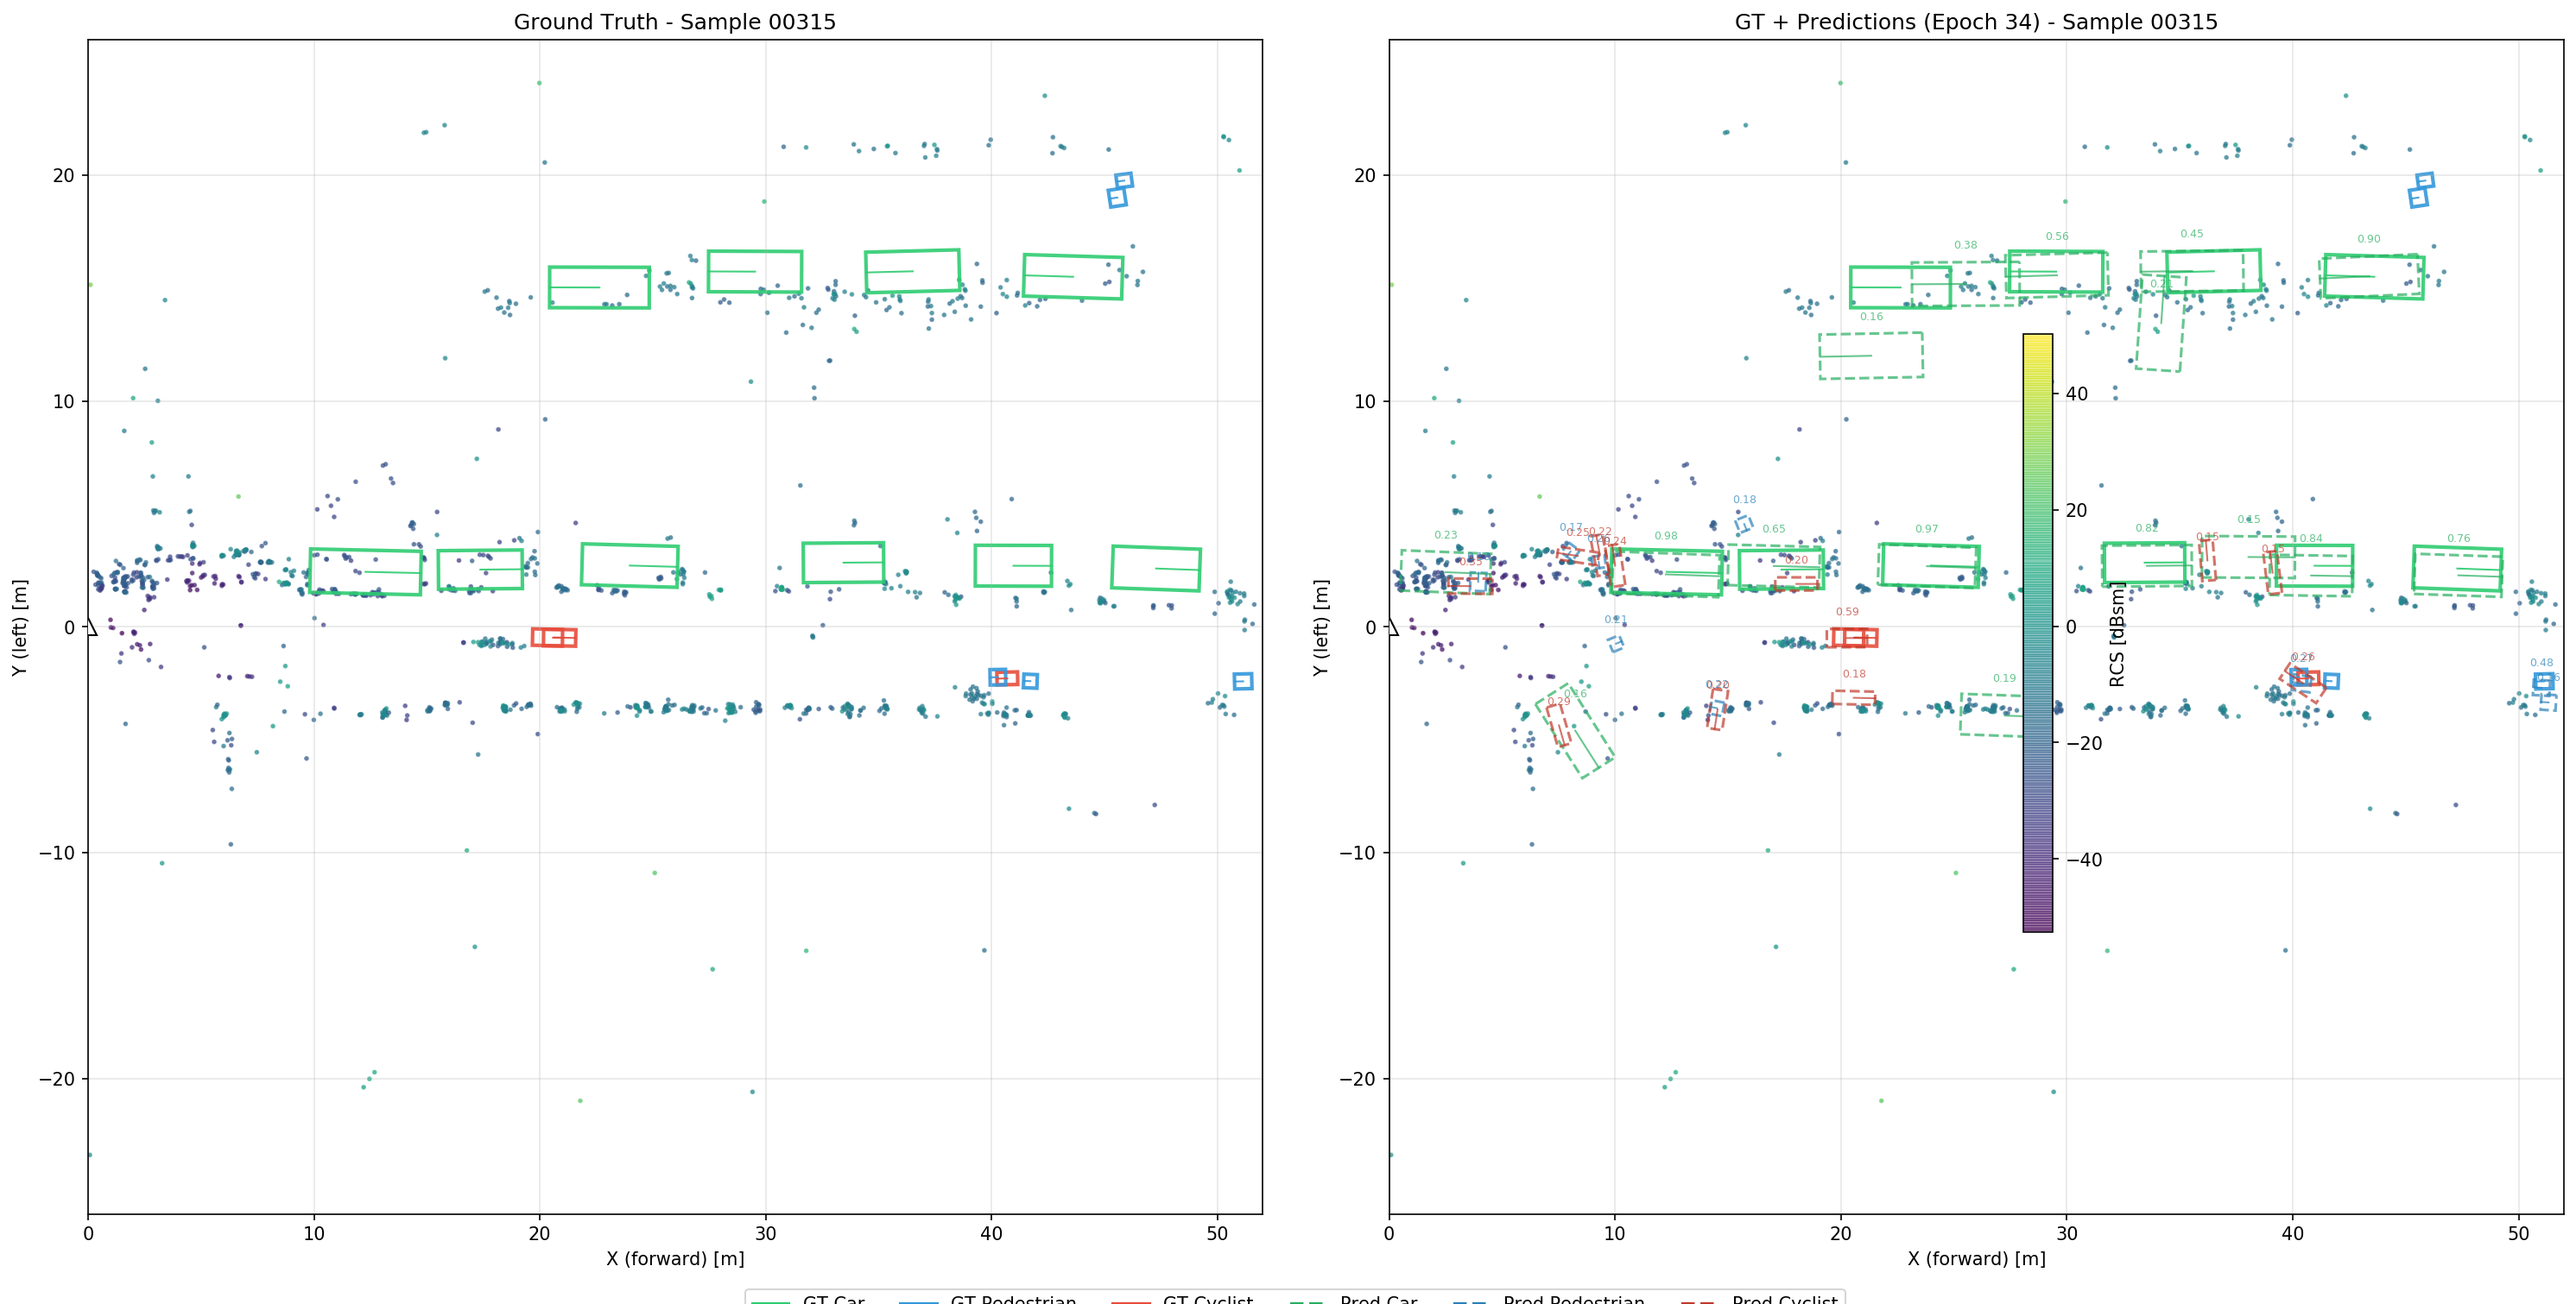
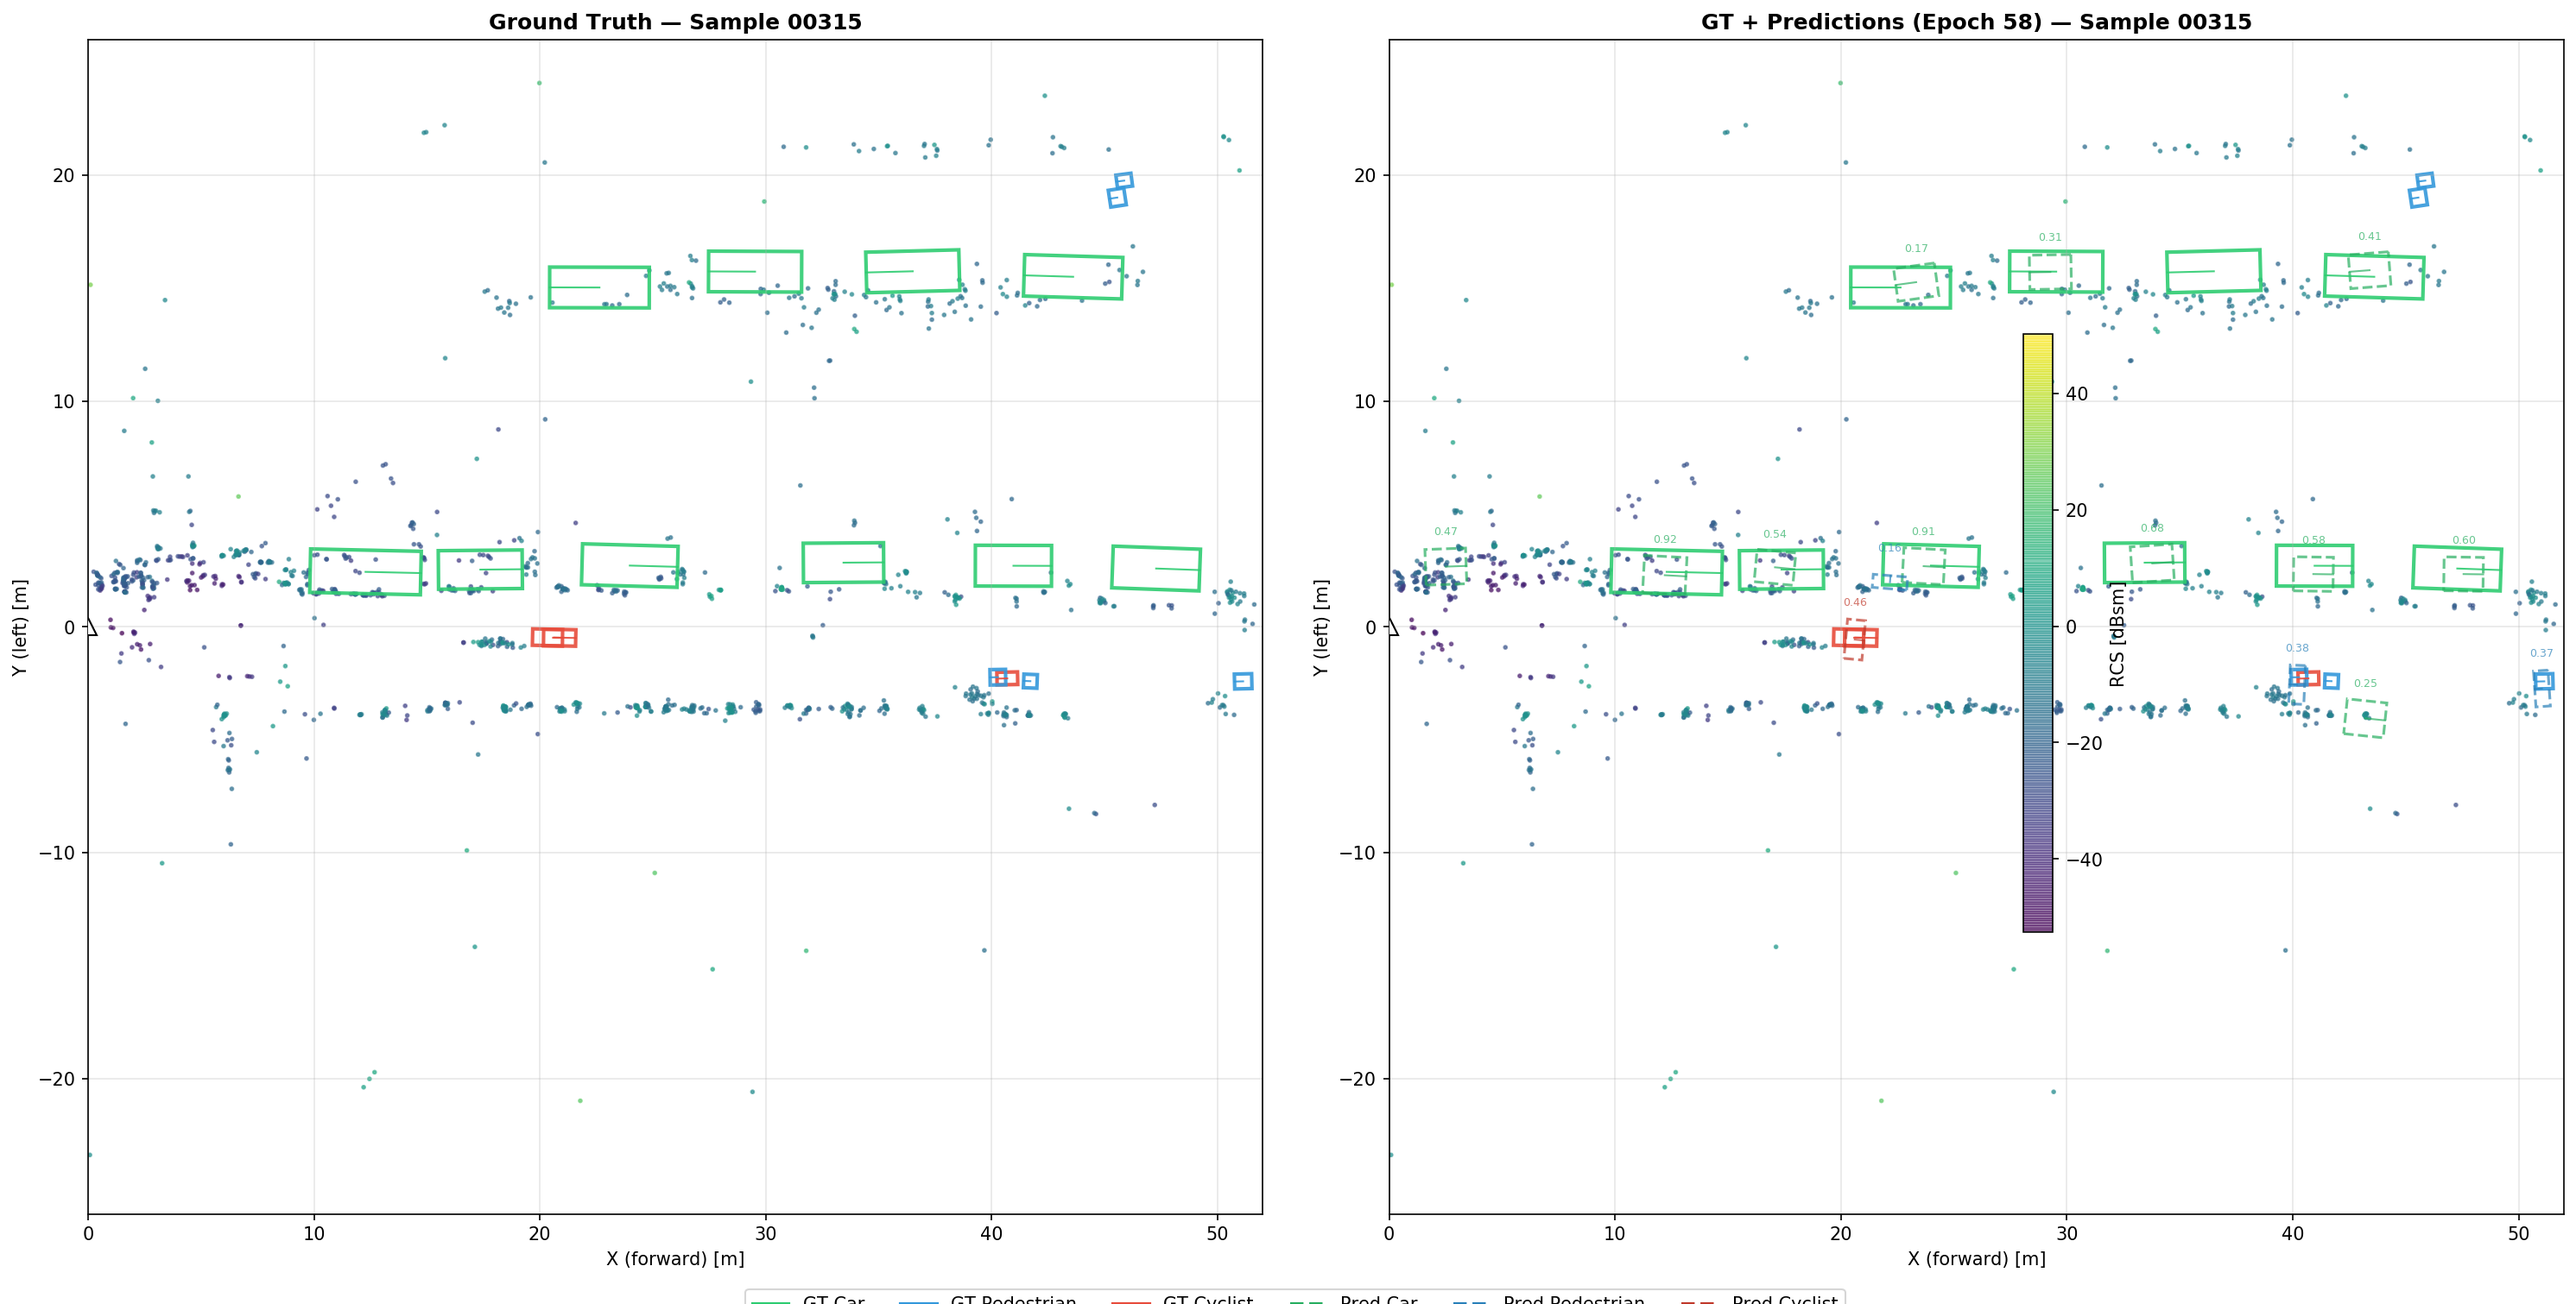
Update README visuals with current experiment results (default, epoch 58)
- Regenerate BEV plots (00315, 00107) from default experiment epoch 58
- Replace old 2peakcyclist AP evolution with default experiment (epoch 48-60)
- Add generate_readme_visuals.py script for reproducible visual generation
- Update BEV descriptions to reference current experiment and epoch

diff --git a/tools/generate_readme_visuals.py b/tools/generate_readme_visuals.py
@@ -1,0 +1,264 @@
+"""
+Generate updated README visuals from current experiment results.
+1. Stable-region AP evolution plot (epoch 48-60) for default experiment
+2. Export result.pkl to KITTI-format txt for BEV visualization
+3. Generate BEV images from the best epoch predictions
+"""
+import os
+import sys
+import re
+import pickle
+import numpy as np
+import matplotlib
+matplotlib.use('Agg')
+import matplotlib.pyplot as plt
+from pathlib import Path
+
+ROOT = Path(__file__).resolve().parent.parent
+DATA_ROOT = ROOT / 'data' / 'VoD' / 'view_of_delft_PUBLIC' / 'radar_5frames'
+OUTPUT_VIS = ROOT / 'docs' / 'visualizations'
+
+# ── 1. AP Evolution Plot (stable region) ────────────────────────────
+def parse_train_log(log_path):
+    """Parse a training log for 3D AP R40 moderate values per epoch."""
+    epoch_pattern = re.compile(r"\*+ EPOCH (\d+) EVALUATION \*+")
+    class_pattern = re.compile(r"(Car|Pedestrian|Cyclist) AP_R40@")
+    metric_pattern = re.compile(r"3d\s+AP:([\d\.]+), ([\d\.]+), ([\d\.]+)")
+
+    data = {}
+    current_epoch = None
+    current_class = None
+
+    with open(log_path, 'r') as f:
+        for line in f:
+            m = epoch_pattern.search(line)
+            if m:
+                current_epoch = int(m.group(1))
+                current_class = None
+                data.setdefault(current_epoch, {})
+                continue
+            if current_epoch is not None:
+                m = class_pattern.search(line)
+                if m:
+                    current_class = m.group(1)
+                    continue
+                if current_class is not None:
+                    m = metric_pattern.search(line)
+                    if m:
+                        # moderate = second value
+                        data[current_epoch][current_class] = float(m.group(2))
+                        current_class = None
+    return data
+
+
+def plot_stable_ap_evolution(out_path):
+    """Plot AP evolution for default experiment, epoch 48-60 (stable region)."""
+    log_dir = ROOT / 'output' / 'cfgs' / 'vod_models' / 'vod_radarpillar' / 'default'
+    logs = sorted(log_dir.glob('log_train_*.txt'))
+    if not logs:
+        print("No default training log found!")
+        return
+
+    data = parse_train_log(str(logs[-1]))
+
+    # Filter to stable epochs
+    epochs = sorted([e for e in data.keys() if 48 <= e <= 60])
+    if not epochs:
+        print("No epochs in 48-60 range found!")
+        return
+
+    classes = ['Car', 'Pedestrian', 'Cyclist']
+    colors = ['#1f77b4', '#ff7f0e', '#2ca02c']
+
+    fig, ax = plt.subplots(figsize=(10, 6))
+    for cls, color in zip(classes, colors):
+        values = [data[e].get(cls, np.nan) for e in epochs]
+        ax.plot(epochs, values, marker='o', color=color, label=cls, linewidth=2)
+
+    ax.set_title('RadarPillar 3D AP (R40) Evolution — Default Experiment', fontsize=13,
+                 fontweight='bold')
+    ax.set_xlabel('Epoch', fontsize=11)
+    ax.set_ylabel('3D AP (%)', fontsize=11)
+    ax.legend(fontsize=11)
+    ax.grid(True, alpha=0.3)
+    ax.set_xticks(epochs)
+
+    fig.tight_layout()
+    fig.savefig(str(out_path), dpi=150, bbox_inches='tight')
+    print(f"Saved: {out_path}")
+    plt.close()
+
+
+# ── 2. Export result.pkl → KITTI txt ────────────────────────────────
+def export_pkl_to_kitti_txt(pkl_path, output_dir):
+    """Convert result.pkl to per-frame KITTI-format txt files."""
+    output_dir = Path(output_dir)
+    output_dir.mkdir(parents=True, exist_ok=True)
+
+    with open(pkl_path, 'rb') as f:
+        results = pickle.load(f)
+
+    for det in results:
+        frame_id = det['frame_id']
+        out_file = output_dir / f'{frame_id}.txt'
+
+        lines = []
+        n = len(det['name'])
+        for i in range(n):
+            name = det['name'][i]
+            trunc = det['truncated'][i]
+            occ = det['occluded'][i]
+            alpha = det['alpha'][i]
+            bbox = det['bbox'][i]  # 2D bbox
+            dims = det['dimensions'][i]  # h, w, l (camera frame)
+            loc = det['location'][i]  # x, y, z (camera frame)
+            ry = det['rotation_y'][i]
+            score = det['score'][i]
+
+            line = (f"{name} {trunc:.2f} {int(occ)} {alpha:.2f} "
+                    f"{bbox[0]:.2f} {bbox[1]:.2f} {bbox[2]:.2f} {bbox[3]:.2f} "
+                    f"{dims[0]:.2f} {dims[1]:.2f} {dims[2]:.2f} "
+                    f"{loc[0]:.2f} {loc[1]:.2f} {loc[2]:.2f} "
+                    f"{ry:.2f} {score:.4f}")
+            lines.append(line)
+
+        with open(out_file, 'w') as f:
+            f.write('\n'.join(lines) + '\n' if lines else '')
+
+    print(f"Exported {len(results)} frames to {output_dir}")
+
+
+# ── 3. BEV Visualization (inline, no txt dependency) ────────────────
+# Import BEV functions from visualize_bev.py
+sys.path.insert(0, str(ROOT / 'tools'))
+from visualize_bev import (parse_label_line, draw_box, get_box_corners,
+                            CLASS_COLORS_GT, CLASS_COLORS_PRED, CLASS_MAPPING)
+from matplotlib.lines import Line2D
+
+
+def visualize_bev_from_pkl(sample_id, pkl_path, epoch_num, output_dir,
+                            score_thresh=0.15, xlim=(0, 52), ylim=(-26, 26)):
+    """Generate BEV vis directly from result.pkl for a given sample."""
+    output_dir = Path(output_dir)
+    output_dir.mkdir(parents=True, exist_ok=True)
+
+    # Load radar points
+    pc_file = DATA_ROOT / 'training' / 'velodyne' / f'{sample_id}.bin'
+    points = np.fromfile(str(pc_file), dtype=np.float32).reshape(-1, 7)
+
+    # Load GT labels
+    gt_file = DATA_ROOT / 'training' / 'label_2' / f'{sample_id}.txt'
+    gt_objects = []
+    with open(gt_file, 'r') as f:
+        for line in f:
+            parts = line.strip().split()
+            if len(parts) < 15 or parts[0] == 'DontCare':
+                continue
+            obj = parse_label_line(line, is_pred=False)
+            if obj['class'] in ('Car', 'Pedestrian', 'Cyclist'):
+                gt_objects.append(obj)
+
+    # Load predictions from pkl
+    with open(pkl_path, 'rb') as f:
+        results = pickle.load(f)
+
+    # Find matching frame
+    pred_objects = []
+    for det in results:
+        if det['frame_id'] == sample_id:
+            n = len(det['name'])
+            for i in range(n):
+                score = det['score'][i]
+                if score < score_thresh:
+                    continue
+                # Reconstruct KITTI-format line for reuse of parse_label_line
+                name = det['name'][i]
+                trunc = det['truncated'][i]
+                occ = int(det['occluded'][i])
+                alpha = det['alpha'][i]
+                bbox = det['bbox'][i]
+                dims = det['dimensions'][i]
+                loc = det['location'][i]
+                ry = det['rotation_y'][i]
+                line = (f"{name} {trunc:.2f} {occ} {alpha:.2f} "
+                        f"{bbox[0]:.2f} {bbox[1]:.2f} {bbox[2]:.2f} {bbox[3]:.2f} "
+                        f"{dims[0]:.2f} {dims[1]:.2f} {dims[2]:.2f} "
+                        f"{loc[0]:.2f} {loc[1]:.2f} {loc[2]:.2f} "
+                        f"{ry:.2f} {score:.4f}")
+                obj = parse_label_line(line, is_pred=True)
+                if obj['class'] in ('Car', 'Pedestrian', 'Cyclist'):
+                    pred_objects.append(obj)
+            break
+
+    # Create figure
+    fig, (ax1, ax2) = plt.subplots(1, 2, figsize=(20, 10))
+
+    for ax, title, show_pred in [
+        (ax1, f'Ground Truth — Sample {sample_id}', False),
+        (ax2, f'GT + Predictions (Epoch {epoch_num}) — Sample {sample_id}', True)
+    ]:
+        rcs = points[:, 3]
+        scatter = ax.scatter(points[:, 0], points[:, 1], c=rcs, cmap='viridis',
+                             s=3, alpha=0.6, zorder=1)
+
+        for obj in gt_objects:
+            color = CLASS_COLORS_GT.get(obj['class'], '#95a5a6')
+            draw_box(ax, obj, color, linestyle='-', linewidth=2, alpha=0.9)
+
+        if show_pred:
+            for obj in pred_objects:
+                color = CLASS_COLORS_PRED.get(obj['class'], '#7f8c8d')
+                lbl = f"{obj['score']:.2f}"
+                draw_box(ax, obj, color, linestyle='--', linewidth=1.5,
+                         alpha=0.7, label_text=lbl)
+
+        ax.set_xlim(xlim)
+        ax.set_ylim(ylim)
+        ax.set_aspect('equal')
+        ax.set_xlabel('X (forward) [m]')
+        ax.set_ylabel('Y (left) [m]')
+        ax.set_title(title, fontsize=12, fontweight='bold')
+        ax.grid(True, alpha=0.3)
+        ax.plot(0, 0, marker='^', color='white', markersize=10,
+                markeredgecolor='black', zorder=5)
+
+    legend_elements = [
+        Line2D([0], [0], color='#2ecc71', linewidth=2, label='GT Car'),
+        Line2D([0], [0], color='#3498db', linewidth=2, label='GT Pedestrian'),
+        Line2D([0], [0], color='#e74c3c', linewidth=2, label='GT Cyclist'),
+        Line2D([0], [0], color='#27ae60', linewidth=2, linestyle='--', label='Pred Car'),
+        Line2D([0], [0], color='#2980b9', linewidth=2, linestyle='--', label='Pred Pedestrian'),
+        Line2D([0], [0], color='#c0392b', linewidth=2, linestyle='--', label='Pred Cyclist'),
+    ]
+    fig.legend(handles=legend_elements, loc='lower center', ncol=6, fontsize=10,
+               bbox_to_anchor=(0.5, -0.02))
+    plt.colorbar(scatter, ax=[ax1, ax2], label='RCS [dBsm]', shrink=0.6, pad=0.02)
+    plt.tight_layout()
+
+    out_path = output_dir / f'bev_{sample_id}.png'
+    fig.savefig(str(out_path), dpi=150, bbox_inches='tight')
+    plt.close()
+    print(f"Saved: {out_path}")
+
+
+# ── Main ─────────────────────────────────────────────────────────────
+if __name__ == '__main__':
+    OUTPUT_VIS.mkdir(parents=True, exist_ok=True)
+
+    # 1. AP Evolution (stable region)
+    print("=== Generating AP Evolution Plot ===")
+    plot_stable_ap_evolution(OUTPUT_VIS / '3d_ap_evolution_default.png')
+
+    # 2. BEV Visualizations from default experiment, epoch 58 (best)
+    print("\n=== Generating BEV Visualizations ===")
+    pkl_path = (ROOT / 'output' / 'cfgs' / 'vod_models' / 'vod_radarpillar' /
+                'default' / 'eval' / 'eval_with_train' / 'epoch_58' / 'val' / 'result.pkl')
+
+    if pkl_path.exists():
+        for sample in ['00315', '00107']:
+            visualize_bev_from_pkl(sample, str(pkl_path), epoch_num=58,
+                                   output_dir=OUTPUT_VIS, score_thresh=0.15)
+    else:
+        print(f"WARNING: {pkl_path} not found. Skipping BEV generation.")
+
+    print("\nDone.")

diff --git a/README.md b/README.md
@@ -146,11 +146,11 @@ VoD's Cyclist class contains diverse sub-types (bicycle, rider, motor, moped). A
 - Overall mAP gap is **-1.9** from the original paper
 - Cyclist detection shows the largest gap (-1.8 to -3.7 AP)
 
-### 3D AP Evolution (Epoch 30-40)
+### 3D AP Evolution (Epoch 48-60, Default Experiment)
 
 <p align="center">
-  <img src="docs/visualizations/3d_ap_evolution_2peakcyclist.png" width="60%" alt="3D AP Evolution">
-  <br><em>Training is highly stable: Cyclist AP stays in 19.5-20.4 range with minimal oscillation</em>
+  <img src="docs/visualizations/3d_ap_evolution_default.png" width="70%" alt="3D AP Evolution">
+  <br><em>Model converges around epoch 54: Car ~36, Pedestrian ~41, Cyclist ~68-69 AP</em>
 </p>
 
 ---
@@ -332,8 +332,12 @@ CUDA_VISIBLE_DEVICES=0 python tools/test.py \
 Visualize model predictions overlaid on radar point clouds. GT boxes are solid lines, predictions are dashed. Points are colored by RCS value.
 
 ```bash
+# Generate BEV from result.pkl (recommended)
+python tools/generate_readme_visuals.py
+
+# Or from KITTI-format txt predictions
 python tools/visualize_bev.py \
-    --pred_dir output/cfgs/vod_models/vod_radarpillar/<exp>/eval/epoch_<N>/val/default/final_result/data \
+    --pred_dir <path_to_kitti_txt_predictions> \
     --samples 00315 00107 \
     --score_thresh 0.15 \
     --output_dir output_bev
@@ -341,12 +345,12 @@ python tools/visualize_bev.py \
 
 <p align="center">
   <img src="docs/visualizations/bev_00315.png" width="90%" alt="BEV Sample 00315">
-  <br><em>Sample 00315 — Dense urban scene (cars + cyclists + pedestrians)</em>
+  <br><em>Sample 00315 — Dense urban scene (default experiment, epoch 58)</em>
 </p>
 
 <p align="center">
   <img src="docs/visualizations/bev_00107.png" width="90%" alt="BEV Sample 00107">
-  <br><em>Sample 00107 — Close-range cyclist cluster</em>
+  <br><em>Sample 00107 — Close-range cyclist cluster (default experiment, epoch 58)</em>
 </p>
 
 ### Anchor Verification
